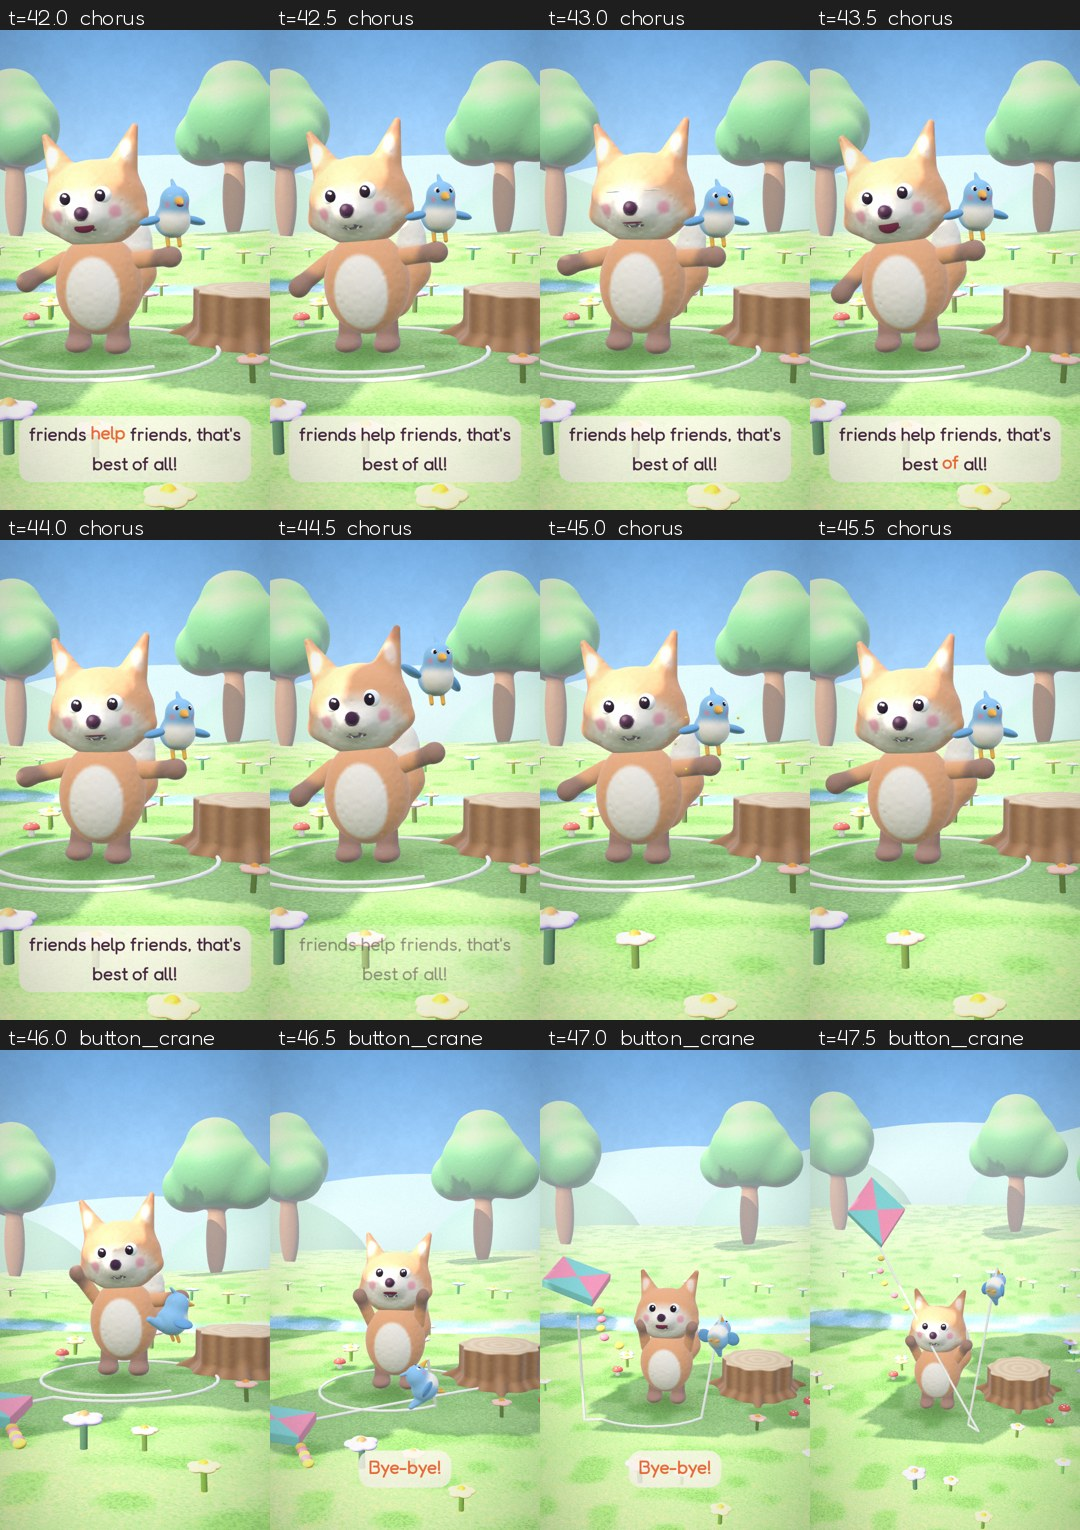
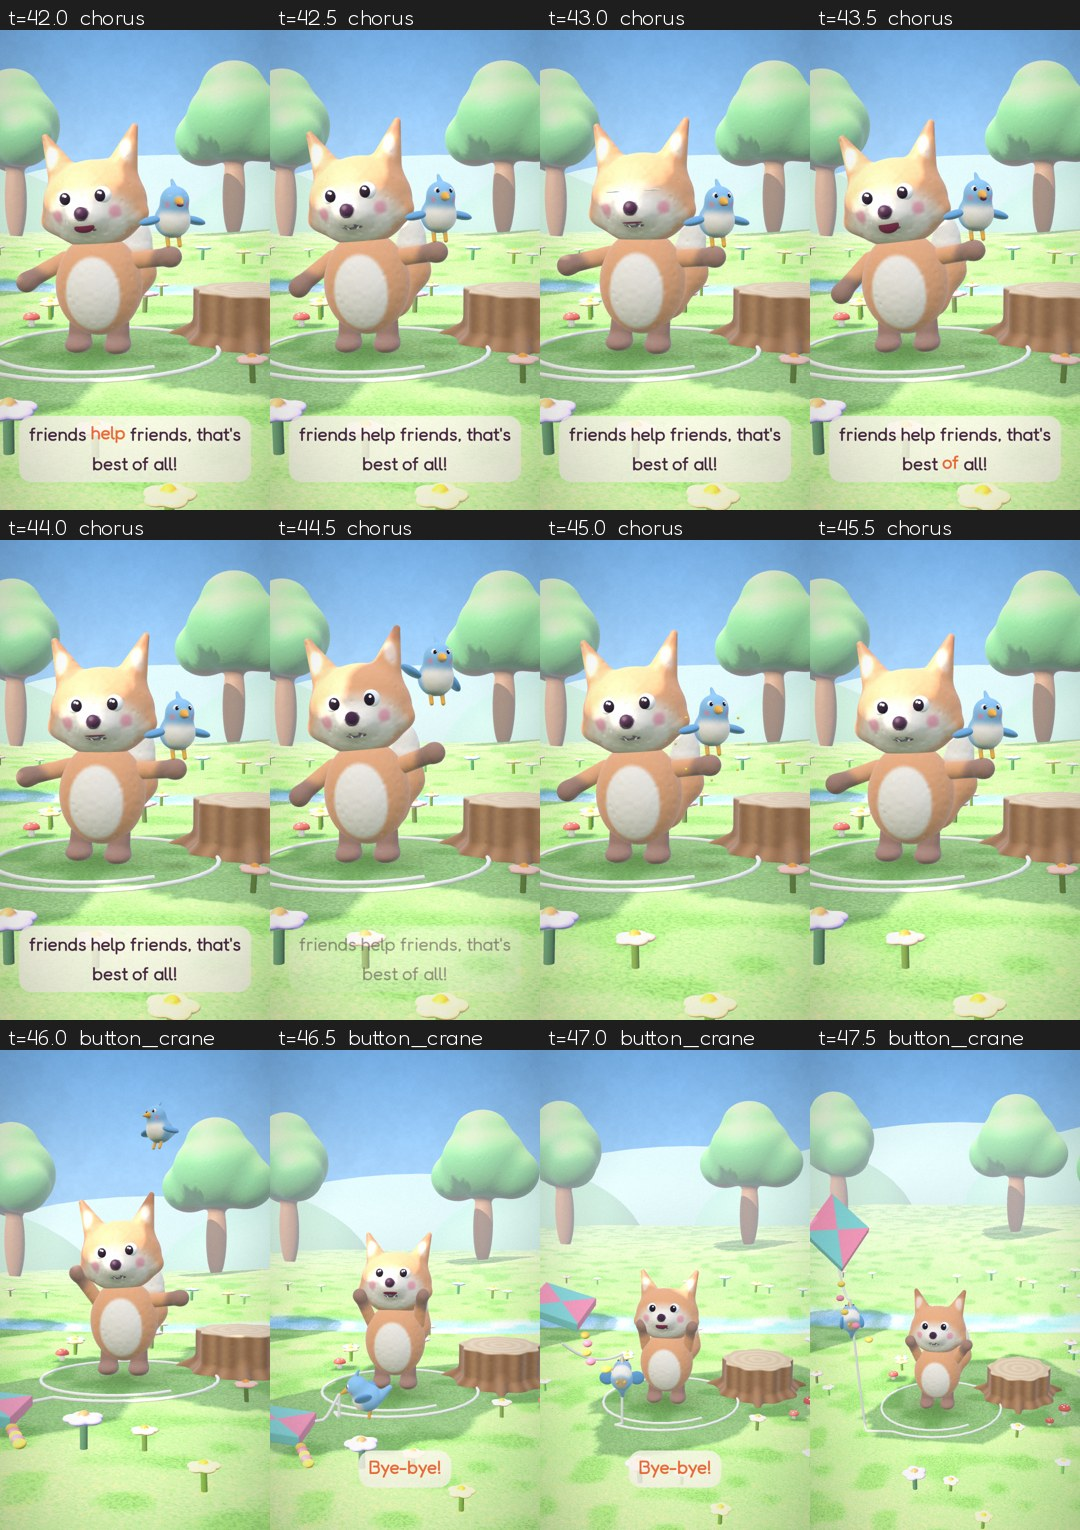
Fable 1: reviewer round 4 fixes (waist-held string and low kite orbit, kite-side pick-up)
Claude-Session: https://claude.ai/code/session_012DiEG3BG1auD4t8c7zPpV2

diff --git a/batches/01-fables-friendship/fable-01-tiny-pip-big-help/code/render.py b/batches/01-fables-friendship/fable-01-tiny-pip-big-help/code/render.py
@@ -43,7 +43,8 @@ MUSH = [(3.5, -0.2, 0.2), (3.2, 0.25, 0.14), (0.2, -1.6, 0.18)]
 KITE_SKY = np.array([TPOS[0] + 1.5, 4.7, TPOS[1] - 2.6])      # on his paw side, so the string never crosses his face
 KITE_REST = (TPOS[0] - 1.3, TPOS[1] + 1.6)          # in front of his head side, clear of the body when he falls
 STRING_FREE = (TPOS[0] + 0.95 * math.cos(0.9), TPOS[1] + 0.95 * math.sin(0.9))            # the loose end of the string on the grass after the spin-out (spiral start)
-GRAB = 0.6                                          # button: Pip picks the end up at this time into the shot
+GRAB = 0.9                                          # button: Pip picks the string up at this time into the shot
+GRAB_PT = np.array([KITE_REST[0] + 0.85, ground_h(KITE_REST[0] + 0.85, KITE_REST[1] - 0.35) + 0.0, KITE_REST[1] - 0.35])   # on the string, beside the resting kite
 rng = np.random.default_rng(21)
 FLOWERS = []
 pastel = [(1.0, .72, .82), (1.0, .85, .6), (.78, .72, 1.0), (.7, .86, 1.0), (1.0, 1.0, 1.0), (1.0, .78, .7)]
@@ -135,7 +136,8 @@ def tumble(t):
         ang = kite_orbit_angle(t)
         if ang is not None:                                                 # he turns as the kite circles him
             st["yaw"] = 0.15 + 0.3 * math.sin(ang) * (1 - w)                # turns away from the stump side
-        st["arms"][0] = lerp([0.45, 1.3], [0.06, 0.05], ease(clampu(w, 0.0, 0.5)))
+        low = ease(clampu(t, T.GUST0 - 0.1, T.GUST0 + 0.35))                # clutches the string low at his waist as the wind hits
+        st["arms"][0] = lerp(lerp([0.45, 1.3], [0.35, 0.5], low), [0.06, 0.05], ease(clampu(w, 0.0, 0.5)))
         st["arms"][1] = lerp([0.15, 0.0], [0.06, 0.05], ease(clampu(w, 0.0, 0.5)))
         st["legs"] = [0.04 * g * max(0, math.sin(t * 13)), 0.04 * g * max(0, -math.sin(t * 13))]
         st["hold"] = w < 0.05
@@ -235,19 +237,19 @@ def kite_state(t, st):
         u = clampu(t, ORBIT_B, ORBIT_B + 0.9)
         if u < 1:                                                           # flutters down round behind him, never across his face
             p0, p2 = orbit_pos(ORBIT_B), rest
-            via = np.array([TPOS[0] - 1.2, 3.4, TPOS[1] - 2.1])
+            via = np.array([TPOS[0] - 1.9, 3.4, TPOS[1] - 2.1])
             e = ease(u)
             p = (1 - e) ** 2 * p0 + 2 * (1 - e) * e * via + e ** 2 * p2
             return p, roty(0.6) @ rotx(-math.pi / 2 * e - 0.3 * (1 - e))
         return rest, Mrest
-    u = ease(clampu(t, SH["button_crane"][0] + GRAB + 0.3, SH["button_crane"][1]))     # Pip pulls it up into the sky again
-    p = lerp(rest, np.array([TPOS[0] - 1.3, 4.2, TPOS[1] - 1.6]), u) + bob * u
+    u = ease(clampu(t, SH["button_crane"][0] + GRAB + 0.1, SH["button_crane"][1]))     # Pip pulls it up into the sky again, on his left
+    p = lerp(rest, np.array([TPOS[0] - 1.9, 4.0, TPOS[1] + 0.5]), u) + bob * u
     p[1] = lerp(rest[1], 4.2, u ** 0.45)                                      # lifts straight up first, clear of his head
     return p, roty(0.6 * (1 - u) + 0.2 * u) @ rotx(-math.pi / 2 * (1 - u) - 0.35 * u)
 def orbit_pos(t):
     ang = kite_orbit_angle(min(max(t, ORBIT_A), ORBIT_B))
     u = clampu(t, ORBIT_A, ORBIT_B)
-    r = lerp(2.6, 1.8, u); hgt = lerp(3.4, 2.6, u)                       # circles above head height
+    r = lerp(2.5, 1.75, u); hgt = lerp(2.0, 1.25, u)                     # circles low, so the string from his waist stays below his face
     return np.array([TPOS[0] + r * math.sin(ang), hgt + 0.15 * math.sin(t * 5), TPOS[1] + r * math.cos(ang)])
 
 # ---------------- string ----------------
@@ -277,10 +279,8 @@ def string_path(t, st, mats, kite_p, pip_beak):
     w = wrap_amt(t)
     kite_low = kite_p + np.array([0, -0.55, 0])                            # bridle point under the diamond
     if t >= SH["button_crane"][0] + GRAB and pip_beak is not None:          # Pip reels the loose string up off the grass
-        v = clampu(t, SH["button_crane"][0] + GRAB, SH["button_crane"][0] + GRAB + 1.0)
-        pile = ground_spiral((TPOS[0], TPOS[1]), 0.95, 1.25, 1.2 * (1 - v), n=max(2, int(40 * (1 - v))))
-        lie = 2.5 * (1 - clampu(kite_low[1], 1.6, 3.0))                     # lies on the grass until the kite is above his head
-        return [pip_beak] + sag_line(pip_beak, pile[0], 0.0, 10)[1:] + pile[1:] + sag_line(pile[-1], kite_low, 0.05 + lie, 30)[1:]
+        pile = ground_spiral((TPOS[0], TPOS[1]), 0.95, 1.25, 1.2)           # the slack stays on the grass round his feet
+        return pile + sag_line(pile[-1], pip_beak, 2.0, 30)[1:] + sag_line(pip_beak, kite_low, 0.15, 16)[1:]
     if st["hold"] and w < 0.05:
         return sag_line(hand, kite_low, 0.35 if t < T.GUST0 else 0.1, 30)
     if t < T.SPIN0:
@@ -405,14 +405,19 @@ def pip_state(t, st, mats):
     # button: Pip grabs the loose string end and flies the kite up
     a, b = SH["button_crane"]
     p0 = apply(fox_mats(tumble(a - 0.01))[2][0], FOXD["arm0"]["hand"]) + np.array([0, PAW_TOP, 0]) + UP
-    g = np.array([STRING_FREE[0], surf(*STRING_FREE) + 0.03, STRING_FREE[1]]) + UP + np.array([0, 0, 0.3])   # stands just in front, beak to the end
-    if t < a + GRAB:                                                        # hops down to the loose end by Tumble's right foot
-        u = clampu(t, a, a + GRAB); p = lerp(p0, g, ease(u)); p[1] += 0.35 * math.sin(math.pi * u)
-        return p, lerp(0.35, math.pi, ease(clampu(u, 0.3, 0.9))), u < 0.85, 0.35 * clampu(u, 0.8, 1.0), False, {"beak": u > 0.9}
-    u = clampu(t, a + GRAB, b)                                              # then flies it up on his own side, high and to the right
-    p1 = np.array([TPOS[0] + 1.05, 3.1, TPOS[1] + 0.35])
+    g = GRAB_PT + UP + np.array([0.25, 0.03, 0.0])                           # just beside the string, next to the kite
+    if t < a + GRAB:                                                        # round behind his head, then down to the string by the kite
+        u = clampu(t, a, a + GRAB)
+        w1 = np.array([p0[0] + 0.15, 3.0, TPOS[1] - 0.7])                     # up and back, beside his raised paw
+        w2 = np.array([TPOS[0] - 1.0, 3.0, TPOS[1] - 0.7])                    # across, high behind his head
+        legs_ = [(p0, w1), (w1, w2), (w2, g)]; k = min(int(u * 3), 2); v = ease(u * 3 - k)
+        p = lerp(legs_[k][0], legs_[k][1], v)
+        yaw = math.atan2(g[0] - p0[0], g[2] - p0[2]) if u < 0.85 else -math.pi / 2
+        return p, yaw, u < 0.9, 0.35 * clampu(u, 0.85, 1.0), False, {"beak": u > 0.92}
+    u = clampu(t, a + GRAB, b)                                              # then flies it up on the kite's side, away from Tumble
+    p1 = np.array([TPOS[0] - 1.75, 2.9, TPOS[1] + 1.3])
     p = lerp(g, p1, ease(u)) + np.array([0, 0.06 * math.sin(t * 9), 0]) * u
-    return p, lerp(math.pi, -0.35, ease(clampu(u, 0.0, 0.4))), True, 0.35 * (1 - clampu(u, 0.0, 0.2) / 0.2), False, {"beak": True}
+    return p, lerp(-math.pi / 2, 0.3, ease(clampu(u, 0.0, 0.4))), True, 0.35 * (1 - clampu(u, 0.0, 0.2) / 0.2), False, {"beak": True}
 
 # ---------------- camera (aspect-fitted) ----------------
 def fit_cam(tgt, yaw_deg, pitch_deg, fit_w, fit_h, fov=38.0, lift=None):
@@ -445,7 +450,7 @@ def camera(t):
         return fit_cam(tgt, lerp(64, 58, e), 14, 0.95, 1.3, fov=36, lift=0.1 if not WIDE else 0.06)
     if name == "gust":                                                      # wide low angle, slow push-in
         e = ease(u)
-        return fit_cam(np.array([TPOS[0], lerp(1.9, 1.5, e), TPOS[1]]), 4, lerp(3, 7, e), lerp(3.0, 2.2, e), lerp(2.6, 1.9, e))
+        return fit_cam(np.array([TPOS[0], lerp(1.6, 1.3, e), TPOS[1]]), 4, lerp(16, 20, e), lerp(3.0, 2.3, e), lerp(2.6, 2.0, e))
     if name == "topple":                                                    # medium side
         return fit_cam(np.array([TPOS[0], 0.85, TPOS[1]]), 28, 6, 1.5, 1.35)
     if name == "overhead_tangled":                                          # top-down: wrapped like a parcel
